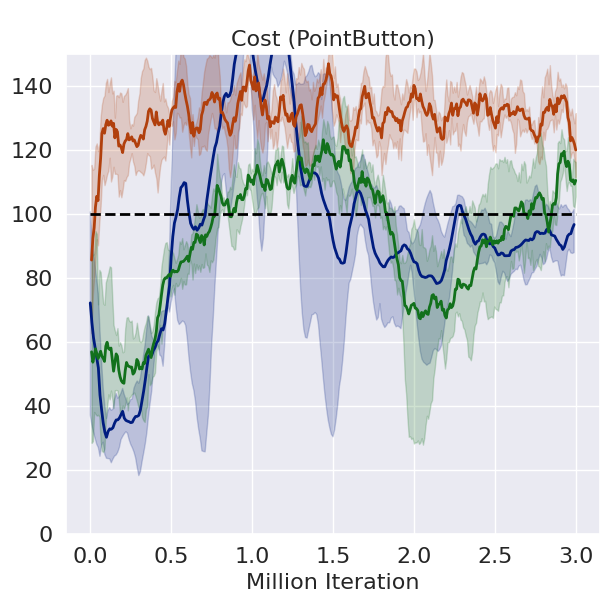
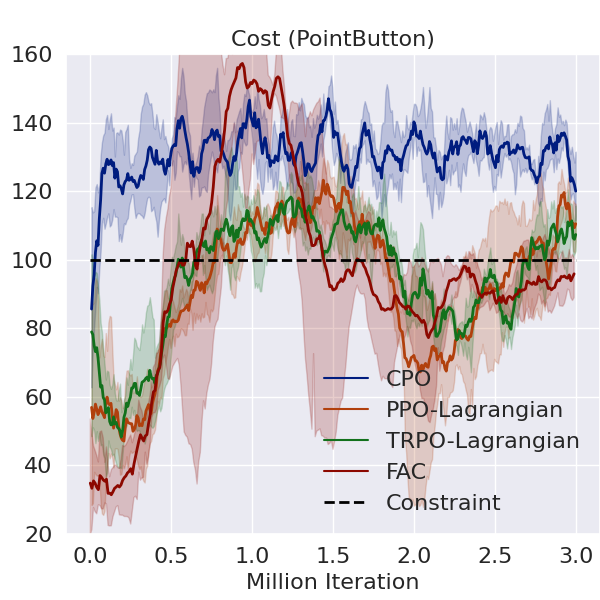
update lineplot

diff --git a/data_process/lineplot.py b/data_process/lineplot.py
@@ -13,17 +13,18 @@ from tensorboard.backend.event_processing import event_accumulator
 import json
 
 sns.set(style="darkgrid")
-SMOOTHFACTOR = 0.3
-SMOOTHFACTOR2 = 10
+SMOOTHFACTOR = 0.8
+SMOOTHFACTOR2 = 20
+SMOOTHFACTOR3 = 10
 DIV_LINE_WIDTH = 50
 txt_store_alg_list = ['CPO', 'PPO-Lagrangian', 'TRPO-Lagrangian']
-ylim_dict = {'episode_return':{'CarGoal': [-5, 25],'PointButton': [-15, 28]},
-             'episode_cost':{'CarGoal': [0, 200],'PointButton': [0, 150]}} # {'CarGoal': [-5, 25]}
+ylim_dict = {'episode_return':{'CarGoal': [-5, 25],'PointButton': [-15, 33]},
+             'episode_cost':{'CarGoal': [0, 280],'PointButton': [20, 160]}} # {'CarGoal': [-5, 25]}
 
 def help_func():
     tag2plot = ['episode_cost']
-    alg_list = ['FSAC', 'CPO', 'PPO-Lagrangian'] # 'SAC','SAC-Lagrangian',, 'TRPO-Lagrangian'
-    lbs = ['FAC', 'CPO', 'PPO-Lagrangian'] # 'SAC','SAC-Lagrangian',, 'TRPO-Lagrangian'
+    alg_list = [ 'CPO', 'PPO-Lagrangian', 'TRPO-Lagrangian', 'FSAC',] # 'SAC','SAC-Lagrangian',, 'TRPO-Lagrangian'
+    lbs = [ 'CPO', 'PPO-Lagrangian', 'TRPO-Lagrangian', 'FAC',] # 'SAC','SAC-Lagrangian',, 'TRPO-Lagrangian'
     task = ['PointButton']
     #todo: CarGoal: sac
     #todo: CarButton: sac choose better fac
@@ -33,7 +34,7 @@ def help_func():
     dir_str = '../results/{}/{}' # .format(algo name) # /data2plot
     return tag2plot, alg_list, task, lbs, palette, goal_perf_list, dir_str
 
-def plot_eval_results_of_all_alg_n_runs(dirs_dict_for_plot=None, legend=False):
+def plot_eval_results_of_all_alg_n_runs(dirs_dict_for_plot=None, legend=True):
     tag2plot, alg_list, task_list, lbs, palette, _, dir_str = help_func()
     df_dict = {}
     df_in_one_run_of_one_alg = {}
@@ -103,19 +104,19 @@ def plot_eval_results_of_all_alg_n_runs(dirs_dict_for_plot=None, legend=False):
         f1 = plt.figure(1, figsize=figsize)
         ax1 = f1.add_axes(axes_size)
         sns.lineplot(x="iteration", y=tag, hue="algorithm",
-                     data=total_dataframe, linewidth=2, palette=palette, legend=False
+                     data=total_dataframe, linewidth=2, palette=palette
                      )
         base = 40 if task == 'PointGoal' else 100
         handles, labels = ax1.get_legend_handles_labels()
         labels = lbs
         if tag == 'episode_cost':
-            basescore = sns.lineplot(x=[0., 3.], y=[base, base], linewidth=2, color='black', linestyle='--', legend=False)
+            basescore = sns.lineplot(x=[0., 3.], y=[base, base], linewidth=2, color='black', linestyle='--')
             if legend:
-                ax1.legend(handles=handles + [basescore.lines[-1]], labels=labels + ['Constraint'], loc='upper right',
+                ax1.legend(handles=handles + [basescore.lines[-1]], labels=labels + ['Constraint'], loc='lower right',
                        frameon=False, fontsize=fontsize)
         else:
             if legend:
-                ax1.legend(handles=handles , labels=labels , loc='upper right', frameon=False, fontsize=fontsize)
+                ax1.legend(handles=handles , labels=labels , loc='lower right', frameon=False, fontsize=fontsize)
         # print(ax1.lines[0].get_data())
         ax1.set_ylabel('')
         ax1.set_xlabel("Million Iteration", fontsize=fontsize)
@@ -148,7 +149,7 @@ def plot_eval_results_of_all_alg_n_runs(dirs_dict_for_plot=None, legend=False):
         # print(results2print)
 
 
-def get_datasets(logdir, tag2plot, alg, condition=None, smooth=SMOOTHFACTOR2, num_run=0):
+def get_datasets(logdir, tag2plot, alg, condition=None, smooth=SMOOTHFACTOR3, num_run=0):
     """
     Recursively look through logdir for output files produced by
     spinup.logx.Logger.
